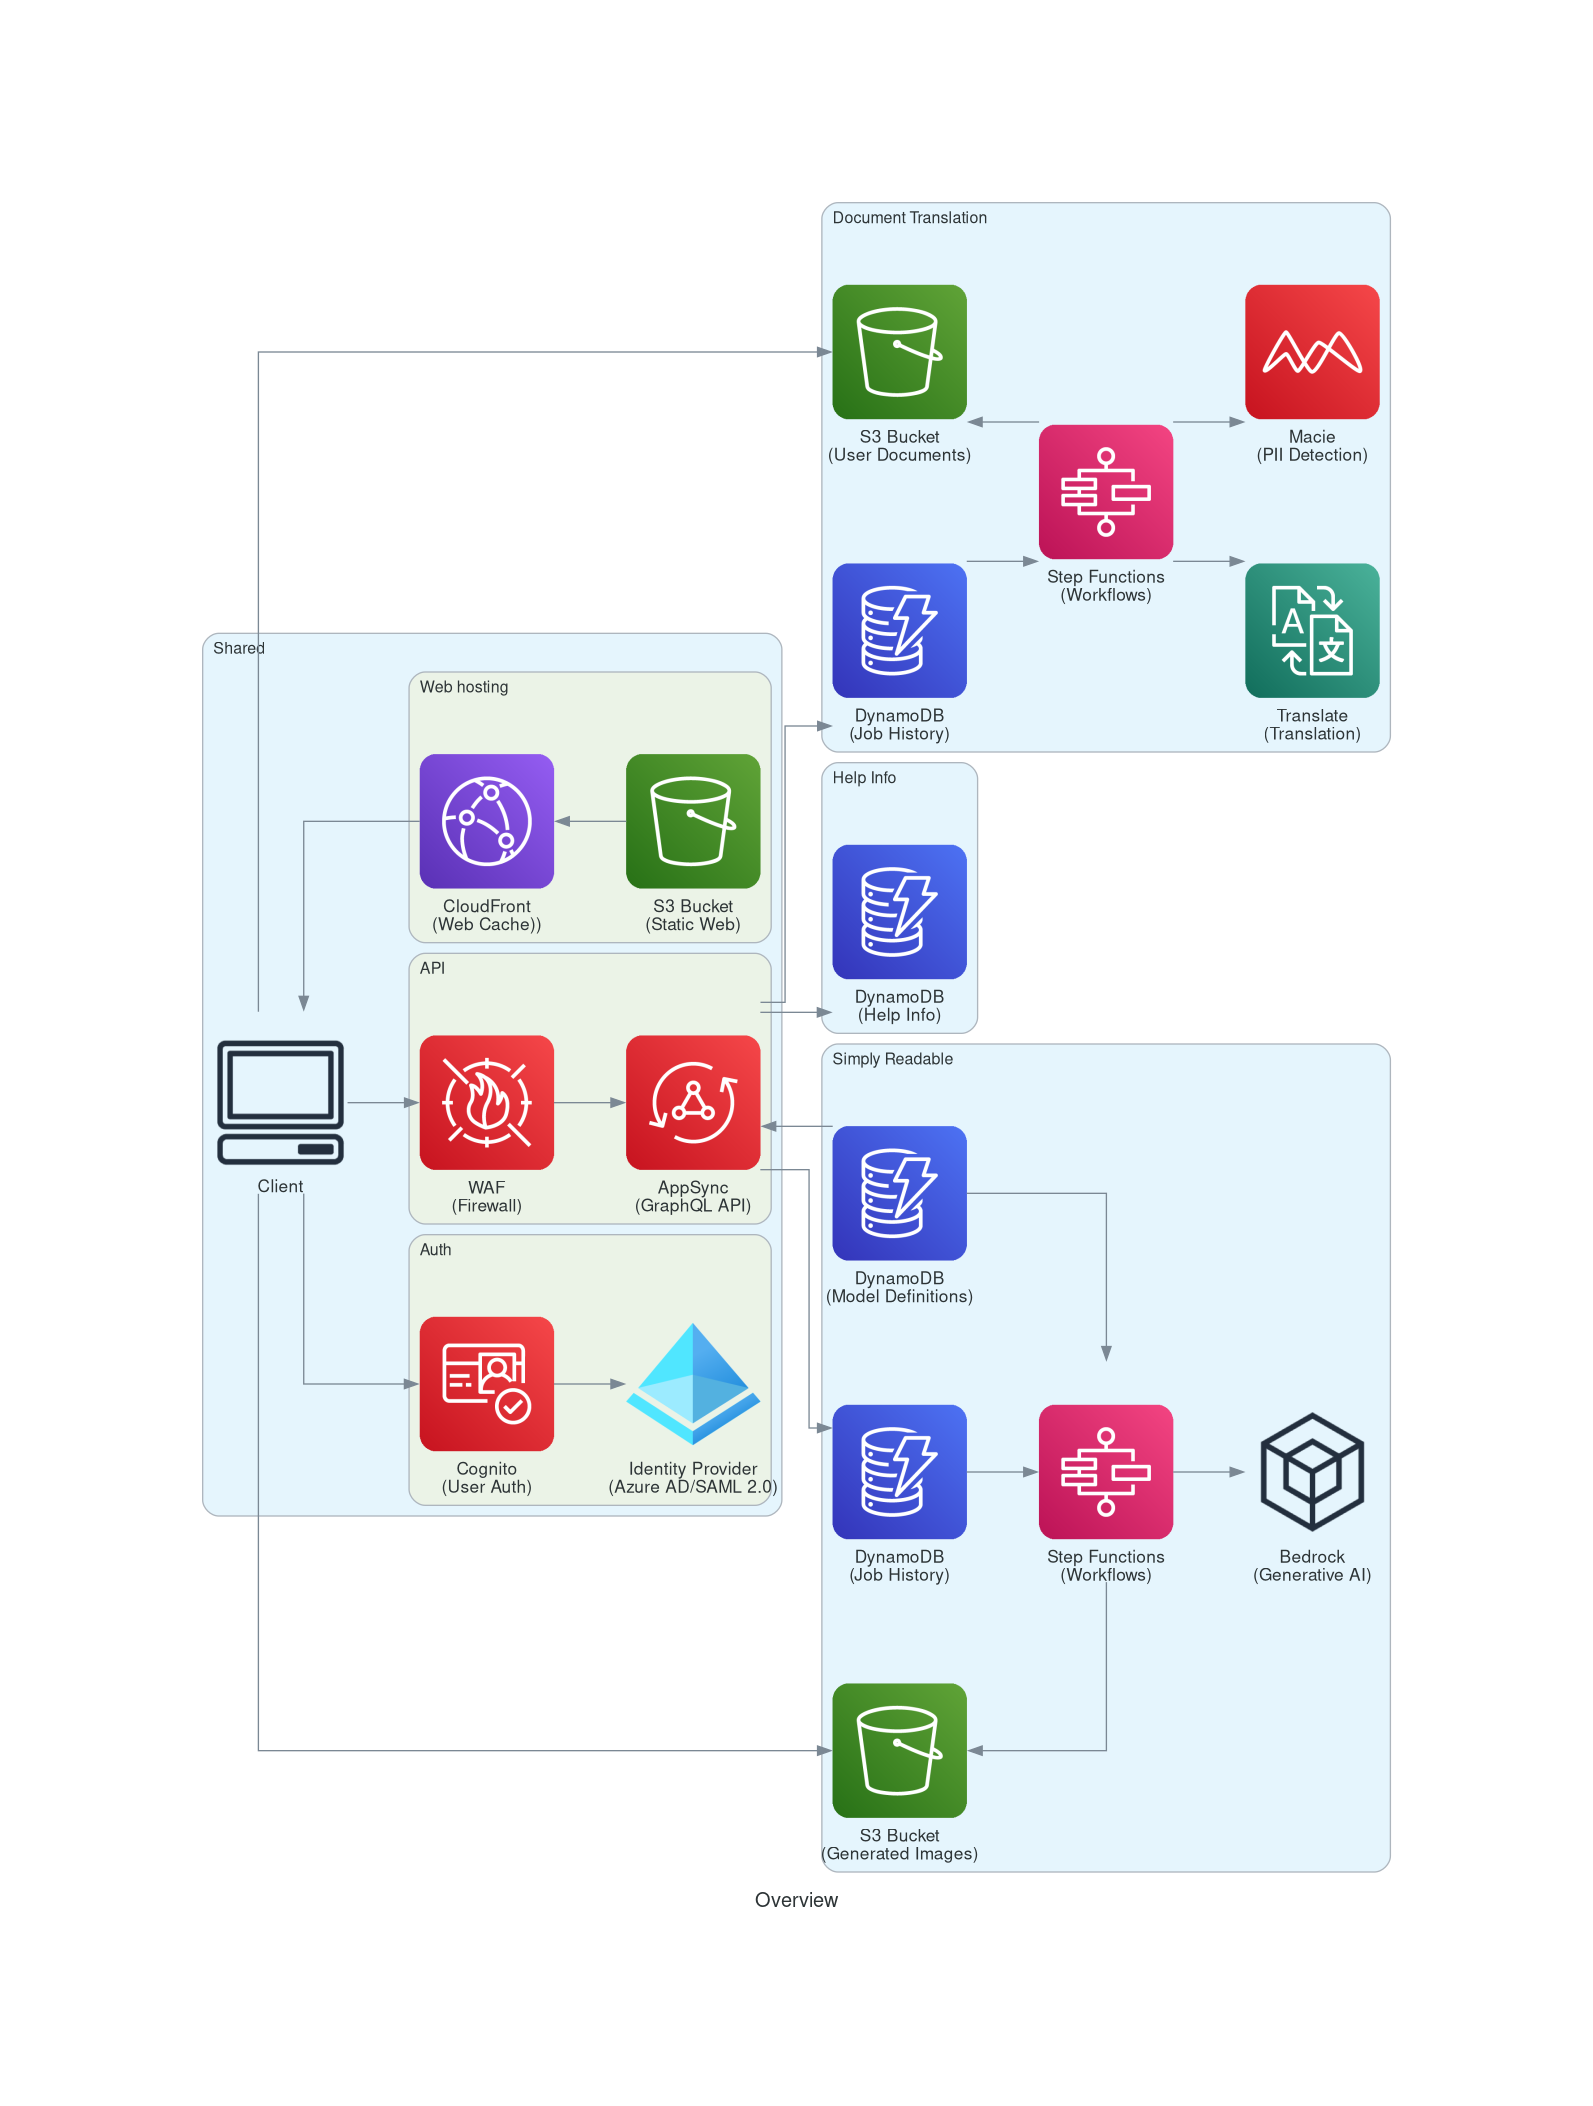
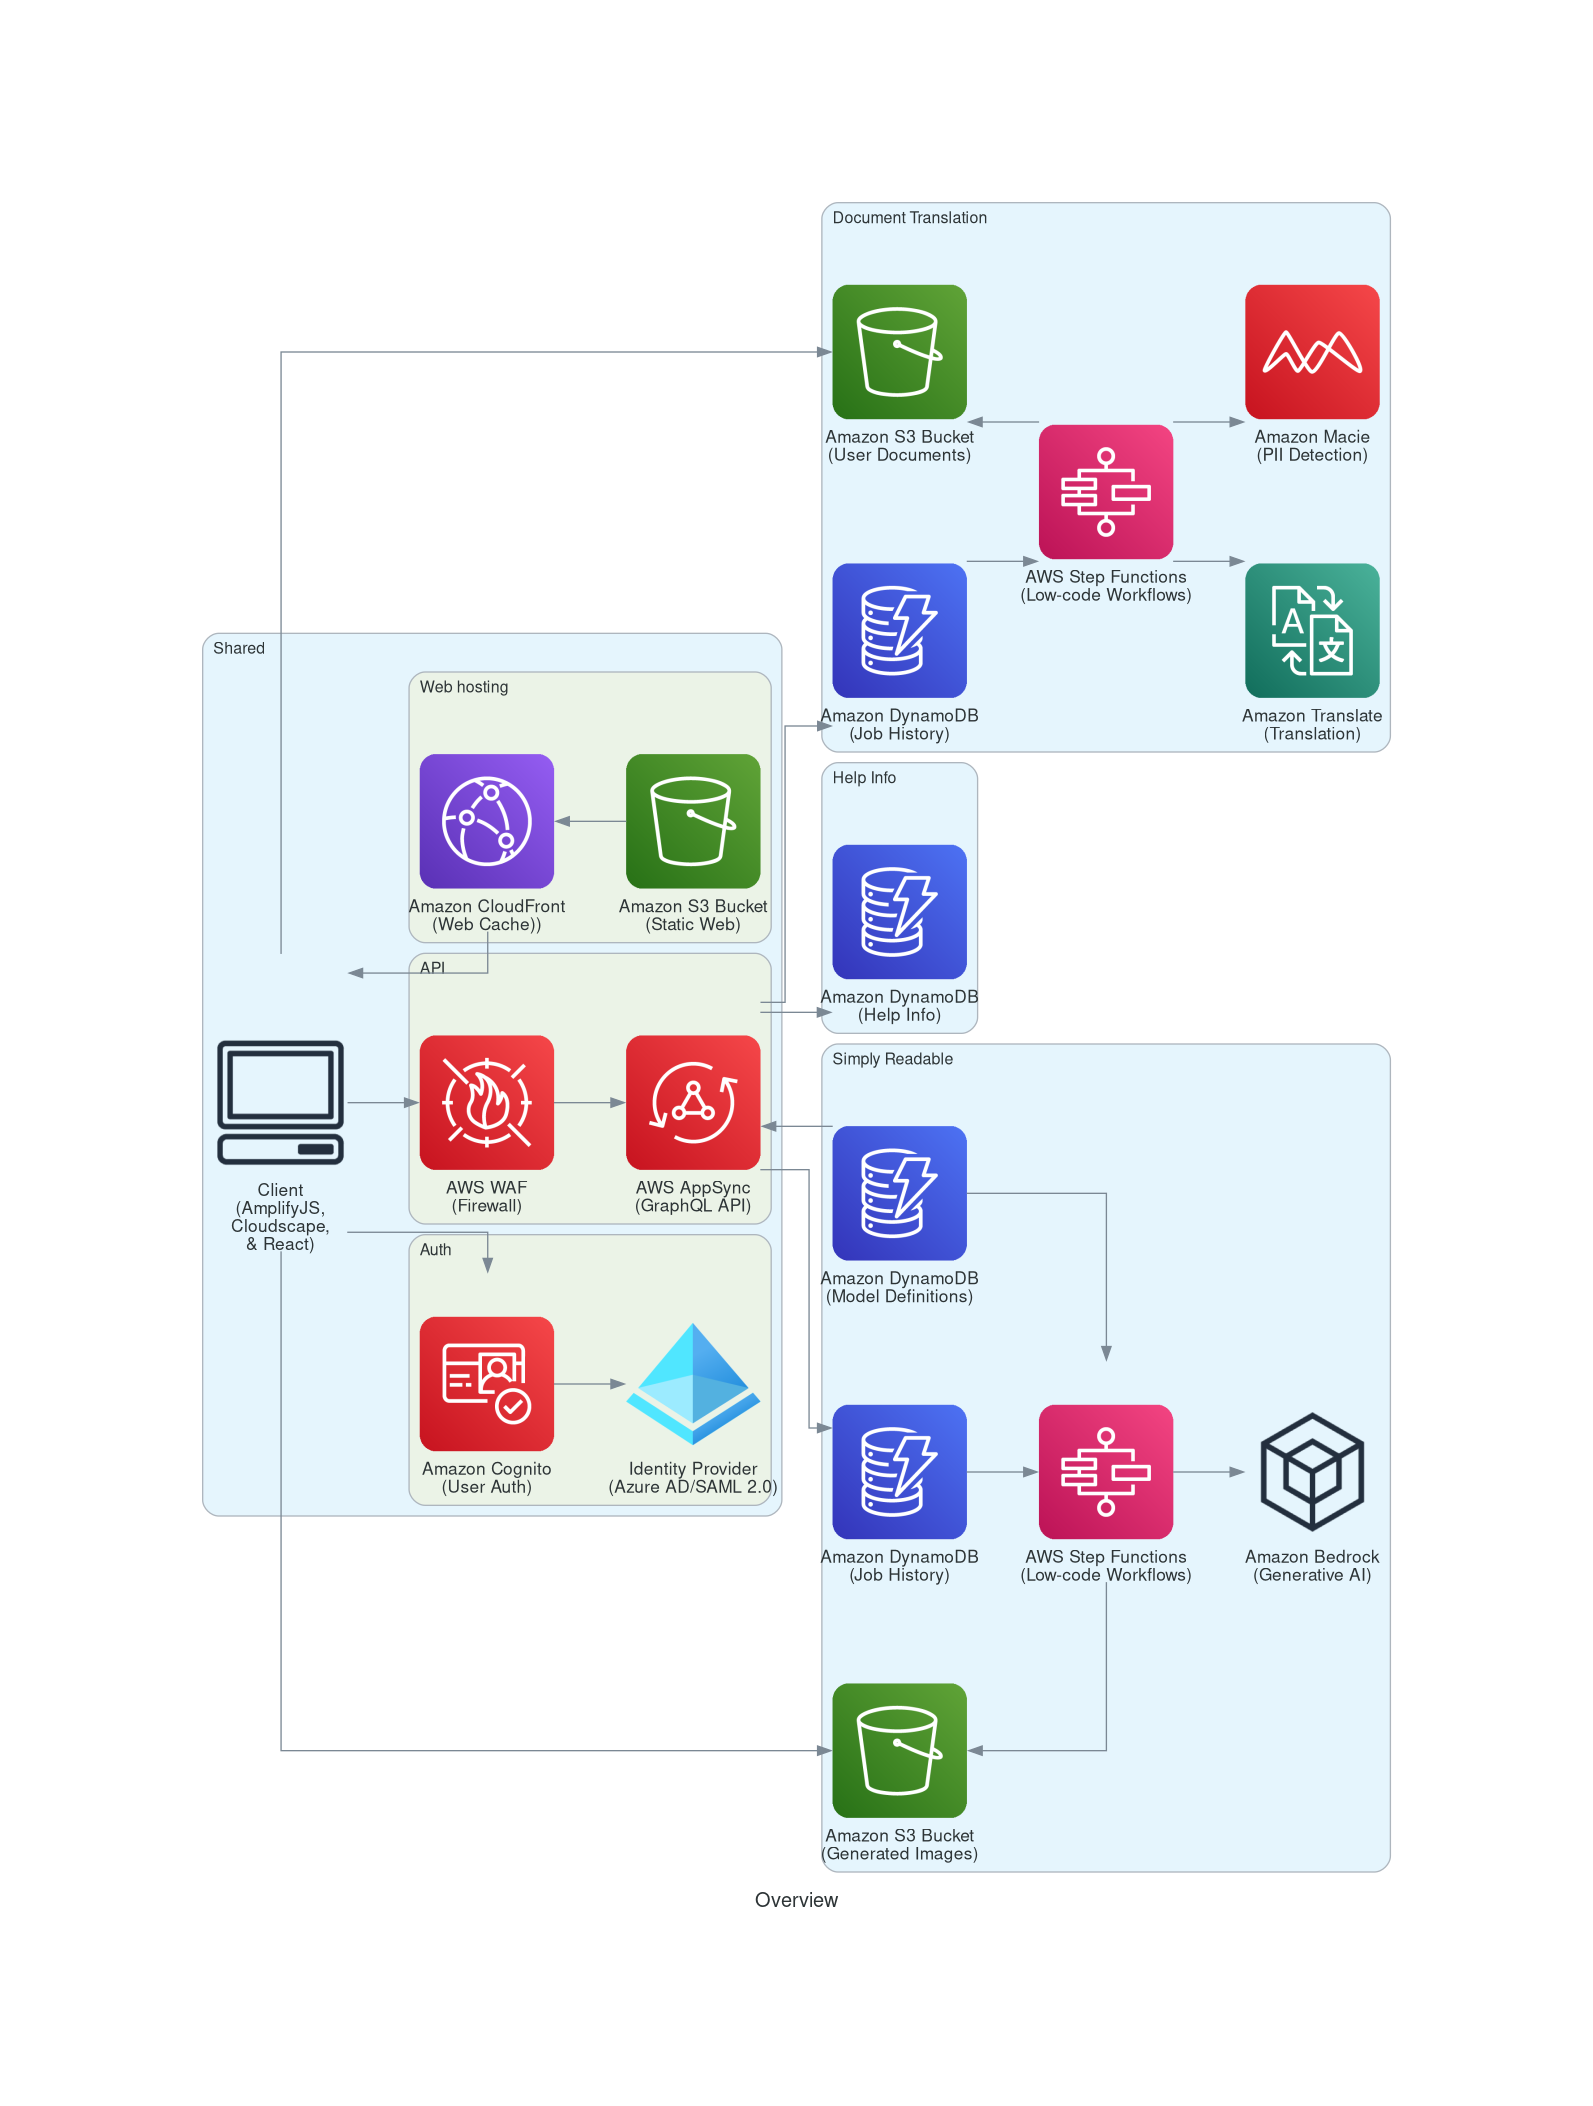
Update service names

diff --git a/docs/static/diagrams/overview.py b/docs/static/diagrams/overview.py
@@ -27,16 +27,16 @@ with Diagram(name_human, filename=name, show=False, graph_attr=attr.graph):
     # SHARED
     # SHARED | NODES
     with Cluster("Shared"):
-        shared_client = Client("Client")
+        shared_client = Client("Client\n(AmplifyJS,\nCloudscape,\n& React)")
         with Cluster("Auth"):
-            shared_auth    = Cognito("Cognito\n(User Auth)")
+            shared_auth    = Cognito("Amazon Cognito\n(User Auth)")
             shared_azuread = ActiveDirectory("Identity Provider\n(Azure AD/SAML 2.0)")
         with Cluster("API"):
-            shared_api_waf     = WAF("WAF\n(Firewall)")
-            shared_api_api     = Appsync("AppSync\n(GraphQL API)") 
+            shared_api_waf     = WAF("AWS WAF\n(Firewall)")
+            shared_api_api     = Appsync("AWS AppSync\n(GraphQL API)") 
         with Cluster("Web hosting"):
-            shared_web_cache = CloudFront("CloudFront\n(Web Cache))")
-            shared_web_hosting = S3("S3 Bucket\n(Static Web)")
+            shared_web_cache = CloudFront("Amazon CloudFront\n(Web Cache))")
+            shared_web_hosting = S3("Amazon S3 Bucket\n(Static Web)")
 
     # SHARED | CONNECTIONS
     # SHARED | CONNECTIONS | WEB HOSTING
@@ -52,7 +52,7 @@ with Diagram(name_human, filename=name, show=False, graph_attr=attr.graph):
     # HELP
     # HELP | NODES
     with Cluster("Help Info"):
-        help_ddb = DDB("DynamoDB\n(Help Info)")
+        help_ddb = DDB("Amazon DynamoDB\n(Help Info)")
 
     # HELP | CONNECTIONS
     shared_api_api >> help_ddb
@@ -61,11 +61,11 @@ with Diagram(name_human, filename=name, show=False, graph_attr=attr.graph):
     # TRANSLATION
     # TRANSLATION | NODES
     with Cluster("Document Translation"):
-        dt_content = S3("S3 Bucket\n(User Documents)")
-        dt_jobs = DDB("DynamoDB\n(Job History)")
-        dt_sfn = SF("Step Functions\n(Workflows)")
-        dt_translate = Translate("Translate\n(Translation)")
-        dt_macie = Macie("Macie\n(PII Detection)")
+        dt_content = S3("Amazon S3 Bucket\n(User Documents)")
+        dt_jobs = DDB("Amazon DynamoDB\n(Job History)")
+        dt_sfn = SF("AWS Step Functions\n(Low-code Workflows)")
+        dt_translate = Translate("Amazon Translate\n(Translation)")
+        dt_macie = Macie("Amazon Macie\n(PII Detection)")
 
     # TRANSLATION | CONNECTIONS
     shared_api_api >> dt_jobs >> dt_sfn
@@ -77,11 +77,11 @@ with Diagram(name_human, filename=name, show=False, graph_attr=attr.graph):
     # READABLE
     # READABLE | NODES
     with Cluster("Simply Readable"):
-        sr_content = S3("S3 Bucket\n(Generated Images)")
-        sr_jobs = DDB("DynamoDB\n(Job History)")
-        sr_models = DDB("DynamoDB\n(Model Definitions)")
-        sr_sfn = SF("Step Functions\n(Workflows)")
-        sr_bedrock = SDK("Bedrock\n(Generative AI)")
+        sr_content = S3("Amazon S3 Bucket\n(Generated Images)")
+        sr_jobs = DDB("Amazon DynamoDB\n(Job History)")
+        sr_models = DDB("Amazon DynamoDB\n(Model Definitions)")
+        sr_sfn = SF("AWS Step Functions\n(Low-code Workflows)")
+        sr_bedrock = SDK("Amazon Bedrock\n(Generative AI)")
 
     # READABLE | CONNECTIONS
     shared_api_api >> sr_jobs >> sr_sfn
